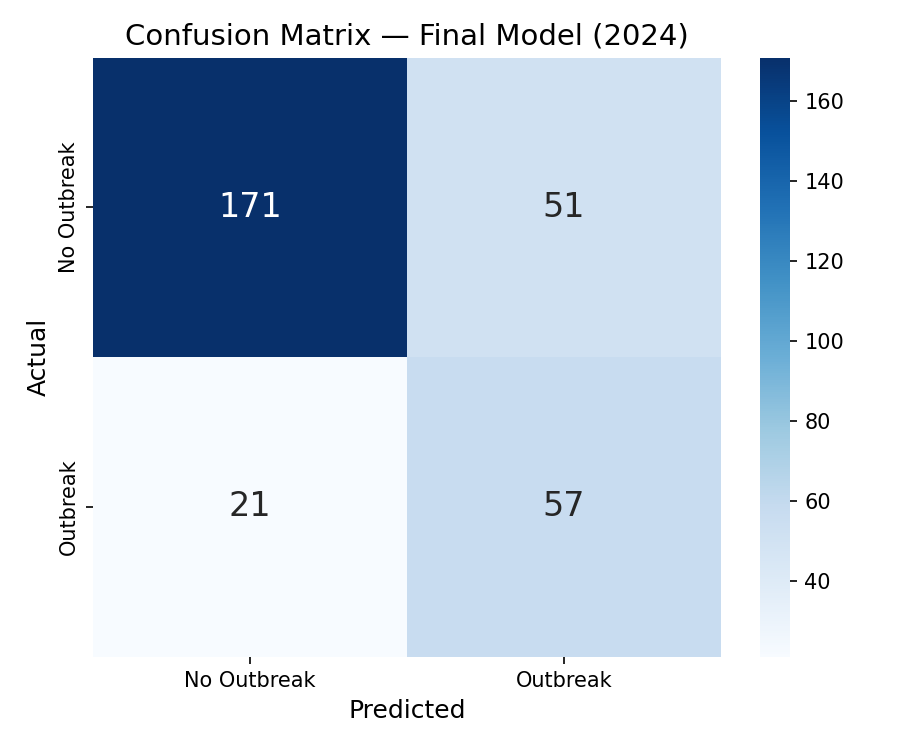
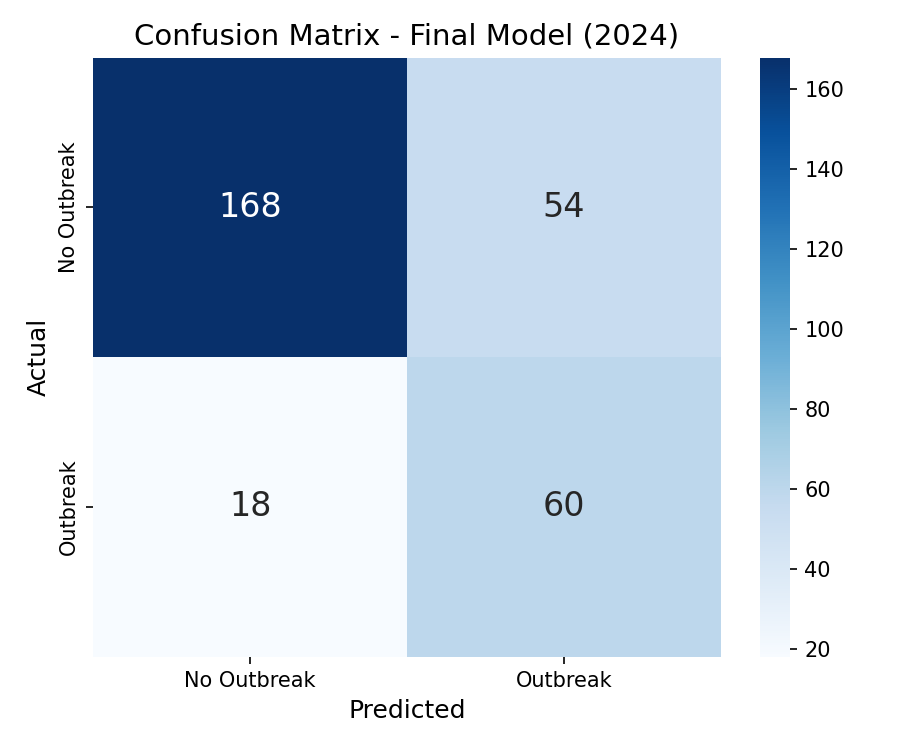
fix: retrain Stage 1 with 21 features (no district_enc), regenerate plots - Removed district_enc from feature set (22 -> 21 features) - ROC-AUC improved from 0.765 to 0.843 - Recall: 76.9%, Precision: 52.6%, F1: 0.625 - Regenerated all Notebook 05 plots with correct model - Added retrain and plot re

diff --git a/scripts/regenerate_nb05_plots.py b/scripts/regenerate_nb05_plots.py
@@ -1,0 +1,190 @@
+"""
+Regenerate all Notebook 05 plots using the 21-feature model.
+"""
+import os, sys
+import joblib
+import pickle
+import numpy as np
+import pandas as pd
+import matplotlib
+matplotlib.use('Agg')
+import matplotlib.pyplot as plt
+import seaborn as sns
+from sklearn.metrics import (
+    classification_report, confusion_matrix,
+    precision_score, recall_score, f1_score,
+    roc_auc_score, average_precision_score
+)
+
+# --- Paths ---
+BASE_DIR = os.path.dirname(os.path.dirname(os.path.abspath(__file__)))
+DATA_FILE = os.path.join(BASE_DIR, 'data', 'processed',
+                         'FMD_model_ready_main refined_final_dataset.csv')
+MODEL_DIR = os.path.join(BASE_DIR, 'models')
+PLOT_DIR = os.path.join(BASE_DIR, 'plots', '05_final_predictions')
+os.makedirs(PLOT_DIR, exist_ok=True)
+
+# --- Load model and data ---
+model = joblib.load(os.path.join(MODEL_DIR, 'stage1_lr_model.pkl'))
+scaler = joblib.load(os.path.join(MODEL_DIR, 'stage1_scaler.pkl'))
+feature_cols = list(joblib.load(os.path.join(MODEL_DIR, 'stage1_feature_cols.pkl')))
+
+df = pd.read_csv(DATA_FILE)
+TARGET = 'Outbreak status'
+
+train = df[df['year'] < 2024]
+test = df[df['year'] == 2024].copy()
+
+X_test = test[feature_cols]
+y_test = test[TARGET]
+X_test_s = scaler.transform(X_test)
+
+test['pred'] = model.predict(X_test_s)
+test['prob'] = model.predict_proba(X_test_s)[:, 1]
+
+print(f"Features: {len(feature_cols)}")
+print(f"Model coef shape: {model.coef_.shape}")
+print(f"Test set: {len(test)} rows (2024)")
+
+# --- Metrics ---
+prec = precision_score(y_test, test['pred'], zero_division=0)
+rec = recall_score(y_test, test['pred'], zero_division=0)
+f1 = f1_score(y_test, test['pred'], zero_division=0)
+roc = roc_auc_score(y_test, test['prob'])
+pr_auc = average_precision_score(y_test, test['prob'])
+print(f"\nPrecision: {prec:.3f}")
+print(f"Recall:    {rec:.3f}")
+print(f"F1 Score:  {f1:.3f}")
+print(f"ROC-AUC:   {roc:.3f}")
+print(f"PR-AUC:    {pr_auc:.3f}")
+
+# ============================
+# PLOT 1: Confusion Matrix
+# ============================
+cm = confusion_matrix(y_test, test['pred'])
+fig, ax = plt.subplots(figsize=(6, 5))
+sns.heatmap(cm, annot=True, fmt='d', cmap='Blues',
+            xticklabels=['No Outbreak', 'Outbreak'],
+            yticklabels=['No Outbreak', 'Outbreak'], ax=ax,
+            annot_kws={'size': 16})
+ax.set_xlabel('Predicted', fontsize=12)
+ax.set_ylabel('Actual', fontsize=12)
+ax.set_title('Confusion Matrix - Final Model (2024)', fontsize=14)
+plt.tight_layout()
+plt.savefig(os.path.join(PLOT_DIR, 'confusion_matrix.png'), dpi=150)
+plt.close()
+print("\n[OK] confusion_matrix.png saved")
+
+# ============================
+# PLOT 2: Actual vs Predicted Heatmap
+# ============================
+districts_sorted = sorted(test['district'].unique())
+months = list(range(1, 13))
+month_labels = ['Jan','Feb','Mar','Apr','May','Jun',
+                'Jul','Aug','Sep','Oct','Nov','Dec']
+
+actual_mat = np.zeros((len(districts_sorted), 12))
+pred_mat   = np.zeros((len(districts_sorted), 12))
+
+for i, dist in enumerate(districts_sorted):
+    for j, m in enumerate(months):
+        row = test[(test['district'] == dist) & (test['month_num'] == m)]
+        if len(row) > 0:
+            actual_mat[i, j] = row.iloc[0][TARGET]
+            pred_mat[i, j]   = row.iloc[0]['pred']
+
+fig, axes = plt.subplots(1, 2, figsize=(20, 8))
+
+sns.heatmap(actual_mat, ax=axes[0], cmap='YlOrRd',
+            cbar_kws={'label': 'Outbreak'},
+            xticklabels=month_labels, yticklabels=districts_sorted,
+            linewidths=0.5, vmin=0, vmax=1)
+axes[0].set_title('Actual Outbreaks 2024', fontsize=13)
+axes[0].set_xlabel('Month')
+axes[0].set_ylabel('District')
+
+sns.heatmap(pred_mat, ax=axes[1], cmap='YlOrRd',
+            cbar_kws={'label': 'Outbreak'},
+            xticklabels=month_labels, yticklabels=districts_sorted,
+            linewidths=0.5, vmin=0, vmax=1)
+axes[1].set_title('Predicted Outbreaks 2024', fontsize=13)
+axes[1].set_xlabel('Month')
+axes[1].set_ylabel('District')
+
+plt.suptitle('Actual vs Predicted - Final Model (2024)',
+             fontsize=14, y=1.02)
+plt.tight_layout()
+plt.savefig(os.path.join(PLOT_DIR, 'actual_vs_predicted.png'),
+            dpi=150, bbox_inches='tight')
+plt.close()
+print("[OK] actual_vs_predicted.png saved")
+
+# ============================
+# PLOT 3: Outbreak Probability Heatmap
+# ============================
+prob_mat = np.zeros((len(districts_sorted), 12))
+for i, dist in enumerate(districts_sorted):
+    for j, m in enumerate(months):
+        row = test[(test['district'] == dist) & (test['month_num'] == m)]
+        if len(row) > 0:
+            prob_mat[i, j] = row.iloc[0]['prob']
+
+fig, ax = plt.subplots(figsize=(14, 8))
+sns.heatmap(prob_mat, ax=ax, cmap='YlOrRd',
+            cbar_kws={'label': 'Outbreak Probability'},
+            xticklabels=month_labels, yticklabels=districts_sorted,
+            linewidths=0.5, vmin=0, vmax=1, annot=True, fmt='.2f',
+            annot_kws={'size': 7})
+ax.set_title('Outbreak Probability - Final Model (2024)', fontsize=14)
+ax.set_xlabel('Month', fontsize=12)
+ax.set_ylabel('District', fontsize=12)
+plt.tight_layout()
+plt.savefig(os.path.join(PLOT_DIR, 'outbreak_probability.png'),
+            dpi=150, bbox_inches='tight')
+plt.close()
+print("[OK] outbreak_probability.png saved")
+
+# ============================
+# PLOT 4: District Risk Ranking
+# ============================
+district_risk = test.groupby('district')['prob'].mean().sort_values(ascending=False)
+fig, ax = plt.subplots(figsize=(10, 6))
+colors = plt.cm.YlOrRd(district_risk.values / max(district_risk.values.max(), 0.01))
+ax.barh(district_risk.index, district_risk.values,
+        color=colors, edgecolor='white')
+ax.set_xlabel('Mean Outbreak Probability', fontsize=12)
+ax.set_title('District Risk Ranking - 2024', fontsize=14)
+ax.invert_yaxis()
+plt.tight_layout()
+plt.savefig(os.path.join(PLOT_DIR, 'district_risk_ranking.png'), dpi=150)
+plt.close()
+print("[OK] district_risk_ranking.png saved")
+
+# ============================
+# PLOT 5: Model Confidence Metrics
+# ============================
+fig, axes = plt.subplots(1, 2, figsize=(14, 5))
+
+# ROC-AUC bar
+metrics = {'Precision': prec, 'Recall': rec, 'F1': f1, 'ROC-AUC': roc, 'PR-AUC': pr_auc}
+bars = axes[0].bar(metrics.keys(), metrics.values(), color=['#3498db','#e74c3c','#2ecc71','#9b59b6','#f39c12'])
+axes[0].set_ylim(0, 1)
+axes[0].set_title('Model Performance Metrics (2024)', fontsize=13)
+for bar, val in zip(bars, metrics.values()):
+    axes[0].text(bar.get_x() + bar.get_width()/2, bar.get_height() + 0.02,
+                 f'{val:.3f}', ha='center', fontsize=10)
+
+# Probability distribution
+axes[1].hist(test[test[TARGET]==0]['prob'], bins=20, alpha=0.7, label='No Outbreak', color='#3498db')
+axes[1].hist(test[test[TARGET]==1]['prob'], bins=20, alpha=0.7, label='Outbreak', color='#e74c3c')
+axes[1].set_xlabel('Predicted Probability', fontsize=12)
+axes[1].set_ylabel('Count', fontsize=12)
+axes[1].set_title('Probability Distribution by Class', fontsize=13)
+axes[1].legend()
+
+plt.tight_layout()
+plt.savefig(os.path.join(PLOT_DIR, 'model_confidence_metrics.png'), dpi=150)
+plt.close()
+print("[OK] model_confidence_metrics.png saved")
+
+print("\nAll plots regenerated successfully.")

diff --git a/scripts/retrain_stage1_21features.py b/scripts/retrain_stage1_21features.py
@@ -1,0 +1,91 @@
+"""
+Retrain Stage 1 model with 21 features (no district_enc).
+Saves model artifacts to BOTH filename sets so Notebook 05
+and the Streamlit app are consistent.
+"""
+import os
+import sys
+import pickle
+import joblib
+import pandas as pd
+import numpy as np
+from sklearn.linear_model import LogisticRegression
+from sklearn.preprocessing import StandardScaler
+from sklearn.metrics import classification_report, precision_score, recall_score, f1_score
+
+# --- Paths ---
+BASE_DIR = os.path.dirname(os.path.dirname(os.path.abspath(__file__)))
+DATA_FILE = os.path.join(BASE_DIR, 'data', 'processed',
+                         'FMD_model_ready_main refined_final_dataset.csv')
+MODEL_DIR = os.path.join(BASE_DIR, 'models')
+
+# --- Load data ---
+df = pd.read_csv(DATA_FILE)
+print(f"Dataset: {df.shape}")
+
+# --- Feature setup (21 features, NO district_enc) ---
+TARGET = 'Outbreak status'
+drop_cols = ['year', 'month_num', 'district', 'PCODE', 'district_enc', TARGET]
+feature_cols = [c for c in df.columns if c not in drop_cols]
+print(f"Features ({len(feature_cols)}): {feature_cols}")
+print(f"district_enc included: {'district_enc' in feature_cols}")
+
+# --- Train/Test split ---
+train = df[df['year'] < 2024]
+test = df[df['year'] == 2024].copy()
+
+X_train, y_train = train[feature_cols], train[TARGET]
+X_test, y_test = test[feature_cols], test[TARGET]
+
+print(f"\nTraining set: {len(train)} rows (2017-2023)")
+print(f"Test set:     {len(test)} rows (2024)")
+
+# --- Scale and train ---
+scaler = StandardScaler()
+X_train_s = scaler.fit_transform(X_train)
+X_test_s = scaler.transform(X_test)
+
+model = LogisticRegression(max_iter=1000, class_weight='balanced', random_state=42)
+model.fit(X_train_s, y_train)
+
+test['pred'] = model.predict(X_test_s)
+test['prob'] = model.predict_proba(X_test_s)[:, 1]
+
+# --- Evaluation ---
+print("\n" + "=" * 60)
+print("  Classification Report — 2024 (21 features, no district_enc)")
+print("=" * 60)
+print(classification_report(y_test, test['pred'],
+                            target_names=['No Outbreak', 'Outbreak'],
+                            zero_division=0))
+prec = precision_score(y_test, test['pred'], zero_division=0)
+rec = recall_score(y_test, test['pred'], zero_division=0)
+f1 = f1_score(y_test, test['pred'], zero_division=0)
+print(f"Precision: {prec:.3f}")
+print(f"Recall:    {rec:.3f}")
+print(f"F1 Score:  {f1:.3f}")
+
+# --- Save to BOTH filename sets ---
+# Set 1: Notebook 05 filenames (pickle)
+path1_model = os.path.join(MODEL_DIR, 'final_model_stage1.pkl')
+path1_scaler = os.path.join(MODEL_DIR, 'scaler_stage1.pkl')
+with open(path1_model, 'wb') as f:
+    pickle.dump(model, f)
+with open(path1_scaler, 'wb') as f:
+    pickle.dump(scaler, f)
+print(f"\n[OK] Saved: {path1_model}")
+print(f"[OK] Saved: {path1_scaler}")
+
+# Set 2: Streamlit app filenames (joblib)
+path2_model = os.path.join(MODEL_DIR, 'stage1_lr_model.pkl')
+path2_scaler = os.path.join(MODEL_DIR, 'stage1_scaler.pkl')
+path2_features = os.path.join(MODEL_DIR, 'stage1_feature_cols.pkl')
+joblib.dump(model, path2_model)
+joblib.dump(scaler, path2_scaler)
+joblib.dump(feature_cols, path2_features)
+print(f"[OK] Saved: {path2_model}")
+print(f"[OK] Saved: {path2_scaler}")
+print(f"[OK] Saved: {path2_features}")
+
+print(f"\nModel coefficient shape: {model.coef_.shape}")
+print("Done.")
